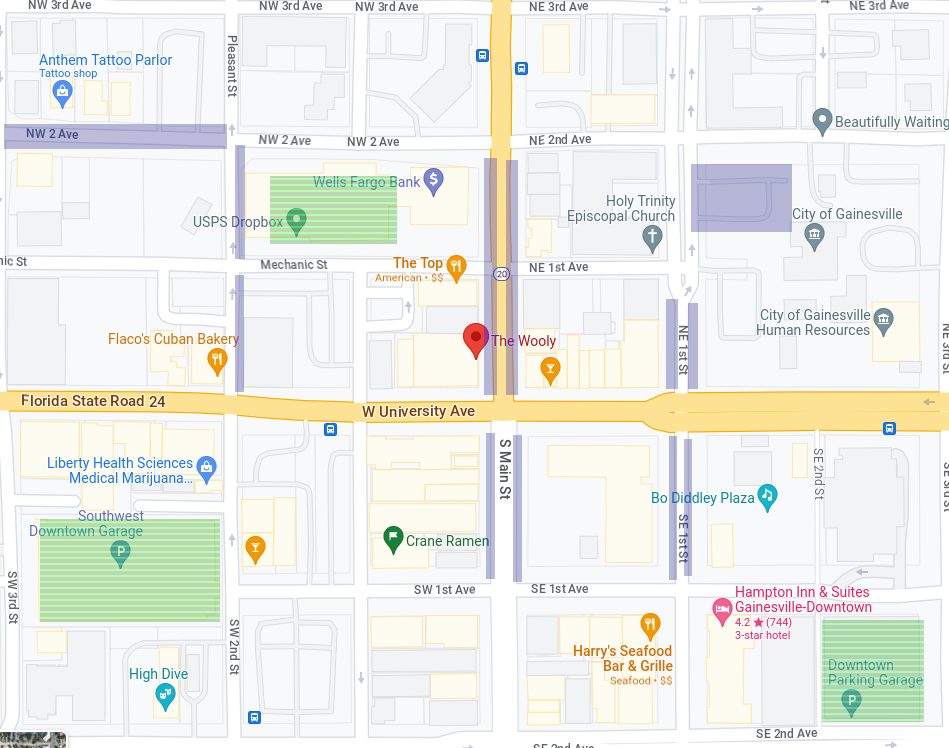
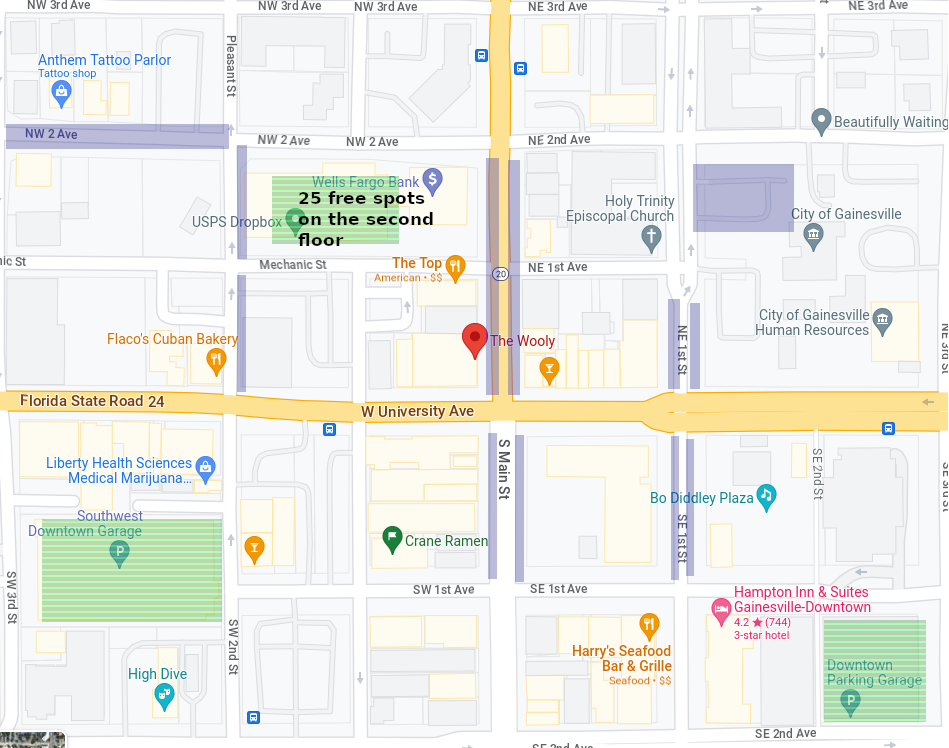
update parking info
Sue had some more info from the Wooly.

diff --git a/col/index.html b/col/index.html
@@ -70,13 +70,22 @@
             <div class="message-header">Where do I park?</div>
             <div class="message-body">
               <p class="block">
-                There is street-side parking in the area, with a few larger city
+                There are 25 spaces reserved on the <b>second floor</b> of the Wells
+                Fargo parking garage just north of the venue. These are free of
+                charge. If the garage accidentally sends you a bill, please take
+                a picture and email it to <a
+                href="mailto:operations@safeparc.com">operations@safeparc.com</a>
+                mentioning this event. They will get it waived.
+              </p>
+              <p class="block">
+                There is also street-side parking in the area, with a few larger city
                 government lots a couple blocks away that are available on the
                 weekend. These are highlighted in solid purple on the map below.
               </p>
               <p class="block">
-                There are a few pay lots nearby as well, highlighted in green
-                stripes on the map below.
+                Beyond that there is more paid parking nearby, including the
+                Wells Fargo lot if we exceed our 25 space reservation. These are
+                highlighted in green stripes on the map below.
               </p>
 
               <a href="parking.png" title="larger image of parking map">
